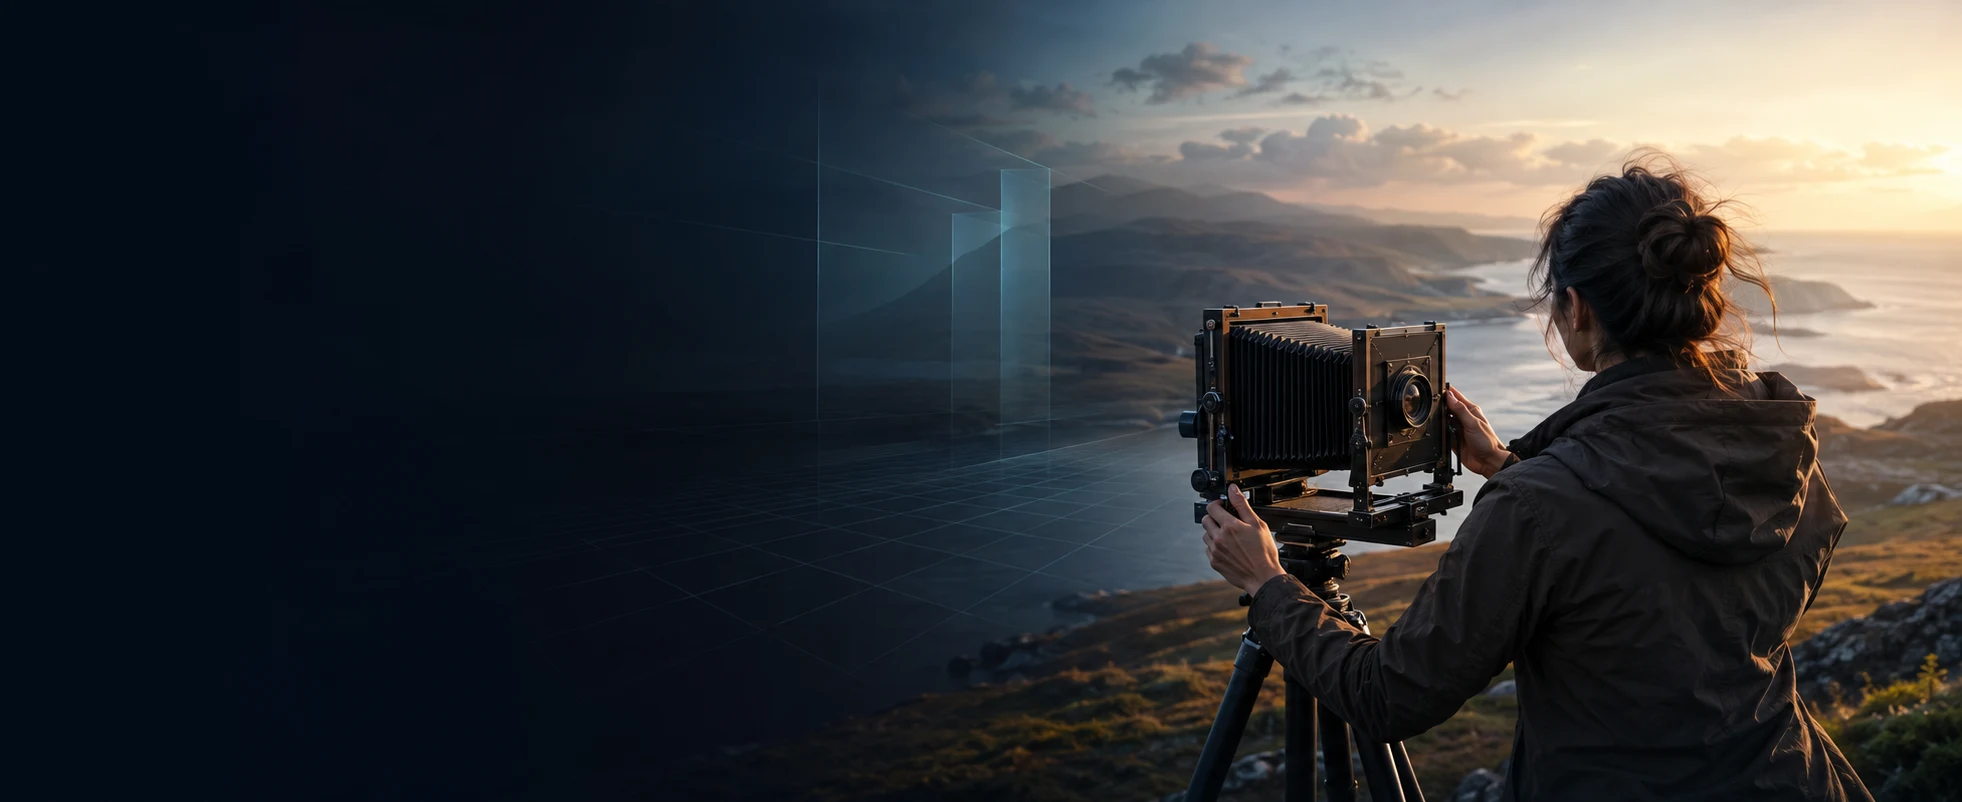
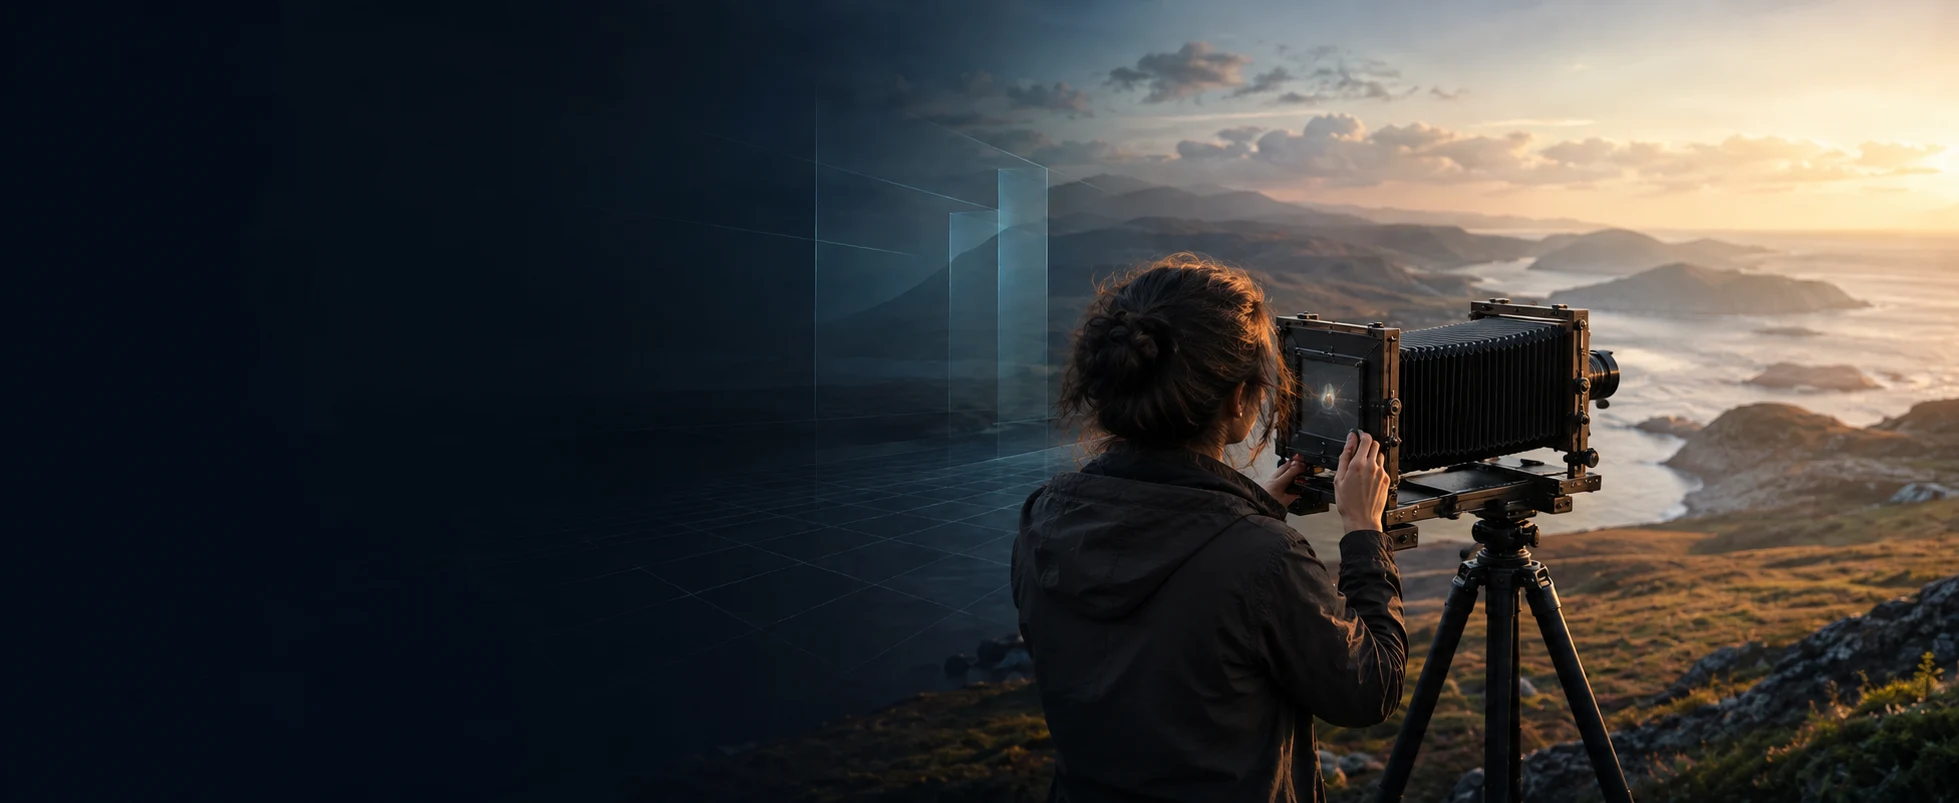
fix(marketing): polish static landing rhythm and CTA art

Changed region(s): [[0.4982, 0.187, 1.0, 1.0], [0.9964, 0.4676, 1.0, 0.4988]]

diff --git a/src/styles/site-marketing.css b/src/styles/site-marketing.css
@@ -328,7 +328,7 @@
 .site-shell .landing-concept-learning {
   max-width: var(--marketing-content-width);
   margin: 0 auto;
-  padding: clamp(72px, 9vw, 128px) clamp(20px, 4vw, 48px) clamp(84px, 10vw, 136px);
+  padding: clamp(72px, 9vw, 128px) clamp(20px, 4vw, 48px) clamp(48px, 5vw, 68px);
 }
 
 .site-shell .landing-learning-section + .landing-learning-section {
@@ -345,7 +345,7 @@
   width: fit-content;
   margin: 0 auto 18px;
   color: var(--marketing-accent);
-  font-size: 0.75rem;
+  font-size: 0.86rem;
   font-weight: 750;
   letter-spacing: 0.18em;
   line-height: 1.25;
@@ -442,7 +442,7 @@
 .site-shell .landing-why-section {
   max-width: var(--marketing-content-width);
   margin: 0 auto;
-  padding: clamp(88px, 11vw, 160px) clamp(20px, 4vw, 48px) clamp(88px, 10vw, 136px);
+  padding: clamp(48px, 5vw, 68px) clamp(20px, 4vw, 48px) clamp(88px, 10vw, 136px);
   scroll-margin-top: 96px;
 }
 
@@ -453,9 +453,10 @@
 }
 
 .site-shell .landing-why-section__eyebrow {
-  margin: 0 0 18px;
+  width: fit-content;
+  margin: 0 auto 18px;
   color: var(--marketing-accent);
-  font-size: 0.75rem;
+  font-size: 0.86rem;
   font-weight: 750;
   letter-spacing: 0.18em;
   line-height: 1.25;
@@ -1195,7 +1196,7 @@
   }
 
   .site-shell .landing-concept-learning {
-    padding: 64px 16px 80px;
+    padding: 64px 16px 40px;
   }
 
   .site-shell .landing-learning-section + .landing-learning-section {
@@ -1208,7 +1209,7 @@
 
   .site-shell .landing-learning-section__eyebrow {
     margin-bottom: 14px;
-    font-size: 0.68rem;
+    font-size: 0.78rem;
   }
 
   .site-shell .landing-learning-section__header h2 {
@@ -1234,7 +1235,7 @@
   }
 
   .site-shell .landing-why-section {
-    padding: 72px 16px 80px;
+    padding: 48px 16px 80px;
   }
 
   .site-shell .landing-why-section__header {
@@ -1243,7 +1244,7 @@
 
   .site-shell .landing-why-section__eyebrow {
     margin-bottom: 14px;
-    font-size: 0.68rem;
+    font-size: 0.78rem;
   }
 
   .site-shell .landing-why-section__header h2 {

diff --git a/.agents/status/CURRENT.md b/.agents/status/CURRENT.md
@@ -1,14 +1,12 @@
-# PR 11D — Final CTA + Static Landing Integration
+# PR 11D.1 — Static Landing Polish
 
-- Objective: complete the static Home flow with a final cinematic CTA after Why It Matters; include the bounded Part E eyebrow shrink-wrap correction.
-- Base: latest `origin/main` `6575fa7390b580842d4be2eeae371847f055ab5b`, containing the PR 11C merge.
-- Branch/worktree: `feature/landing-redesign-final-cta` / `/Users/homan/repo/view-camera-landing-final-cta`.
-- Landing flow: `LandingHero` → `LandingFundamentalsSection` → `LandingVisualizationSection` → `LandingWhyItMattersSection` → `LandingFinalCtaSection`; no Scene Gallery or content after the CTA before the shared footer.
-- Components: added local `LandingFinalCtaSection`; Home orchestration and all prior Hero, Part E, and Why markup remain otherwise unchanged.
-- ImageGen asset: independently generated and inspected `public/assets/landing/final-cta.webp` — 1962×802, 86,872 bytes, WebP VP8. Rear three-quarter photographer and coherent view camera are right-weighted; left side is a dark text-safe field with a restrained warm-reality/cool-optical transition; no text, UI, logos, or obvious anatomy/camera defects.
-- i18n: added `home.finalCta.title`, `home.finalCta.description`, and `home.finalCta.action` in English and zh-HK; locale resolution is unchanged.
-- Part E micro-fix: `.site-shell .landing-learning-section__eyebrow` now uses `width: fit-content` and centered auto margins; typography/color and the 18px desktop spacing remain unchanged, with no DevTools-overlay workaround.
-- Responsive/accessibility: CTA is a full-width static 420–520px desktop band and 520px mobile band, uses a reserved lazy 1962×802 image with empty alt text, one H2, and exactly one `/scenes` link. Exactly one page H1 remains.
-- Browser evidence: direct Chromium inspection at 1440×900, 1288×904, 1024×800, 768×900, 390×844 English, and 390×844 zh-HK. CTA remained readable, camera/photographer stayed visible, and overflow was zero. At 1288×904 the first Part E eyebrow measured 241.36px inside the 780px header, centered with 18px bottom margin.
-- Validation: focused Home/i18n integration tests passed (10 tests); focused Home/marketing Chromium E2E passed (11/11); `ci:local` passed CSS structure, lint, typecheck, all Vitest (164 files, 1,596 tests), and production build; `git diff --check` passed.
+- Objective: improve static landing eyebrow readability, tighten the Three Ways → Why It Matters boundary, and correct the Final CTA camera orientation.
+- Base: latest `origin/main` `0ad4ad75a998c329dab771aa19803f83ddd48ebf`, containing PR #133 / PR 11D.
+- Branch/worktree: `fix/landing-static-polish` / `/Users/homan/repo/view-camera-landing-static-polish`; the merged PR 11D branch was not reused.
+- CSS typography: `.landing-learning-section__eyebrow` and `.landing-why-section__eyebrow` are now `0.86rem` desktop and `0.78rem` mobile. Existing cyan treatment, tracking, centered `width: fit-content`, and mobile/desktop margins remain intact; the Hero eyebrow is unchanged.
+- Section rhythm: reduced only the Part E bottom and Why top boundary padding. Runtime E → Why-eyebrow separation measured 136px at 1440, 128.78px at 1288, 102.38px at 1024, 96px at 768, and 88px at 390; E1 ↔ E2 spacing and other section padding remain unchanged.
+- ImageGen: regenerated and inspected only `public/assets/landing/final-cta.webp` — 1959×803, 89,746 bytes, WebP VP8. The photographer is at the rear standard; the bellows run forward to one front lens pointing outward toward the landscape; tripod, hands, and camera assembly read coherently. The dark left text-safe region is preserved.
+- Scope: static CSS and asset correction only. No copy, i18n, component markup, section order, Hero, Part E content, Why content, simulator, optics, renderer, RTT, routes, or motion changed.
+- Browser evidence: direct Chromium inspection at 1440×900, 1288×904, 1024×800, 768×900, 390×844 English, and 390×844 zh-HK. Eyebrows measured 13.76px desktop / 12.48px mobile, remained centered and readable, CTA copy remained legible, camera orientation was clear, and horizontal overflow was zero. A full-page 1440 review confirmed the complete static rhythm.
+- Validation: focused Home/i18n integration tests passed (10 tests); focused Home/marketing Chromium E2E passed (11/11); `npm run ci:local` passed CSS structure, lint, typecheck, all Vitest (164 files, 1,596 tests), and production build; `git diff --check` passed.
 - Deferred: PR 11E — Motion + Accessibility Polish.
